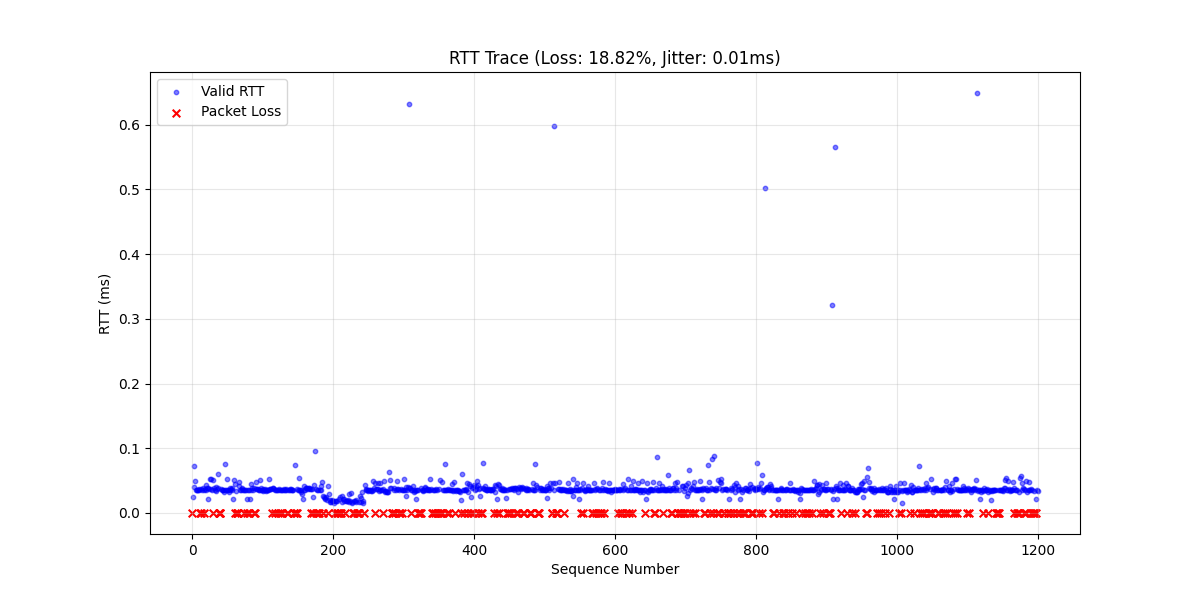
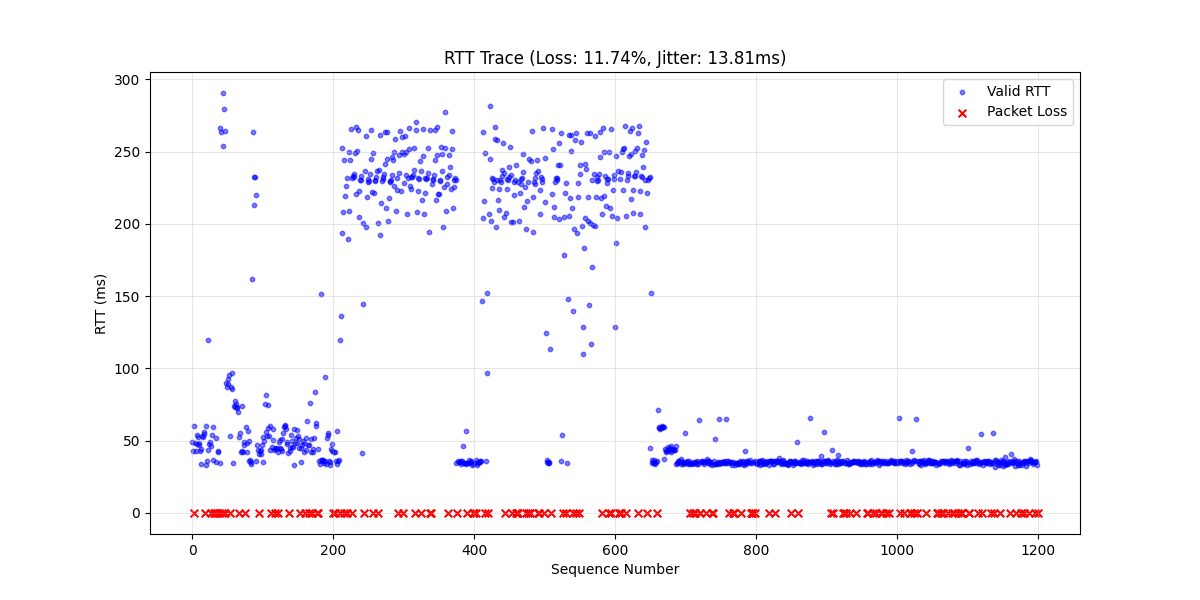
feat: finish report

diff --git a/report_template/sections/results_analysis.tex b/report_template/sections/results_analysis.tex
@@ -1,0 +1,52 @@
+\section{Results Analysis}
+The Round Trip Time (RTT) shows a clear bimodal distribution, visible in both the scatter plot (Figure 1) and the CDF (Figure 2).
+
+\begin{itemize}
+    \item \textbf{Baseline Latency:} The minimum RTT is 32.03 ms, close to the expected 30 ms, with a median of 42.82 ms during stable periods.
+    
+    \item \textbf{Queueing Spikes:} RTT occasionally rises up to 290.59 ms, with the 95th percentile at 256.31 ms, and the CDF shows almost no packets between 100 ms and 150 ms. This pattern could be caused by congestion on the path, but other factors—such as OS scheduling delays, emulator artifacts, or background traffic—might also contribute.
+
+    \item \textbf{Variability:} Average change between consecutive RTTs is 13.81 ms, showing high variability during possible congestion.
+\end{itemize}
+
+Grouping RTTs into 60-second bins (Figure 3) shows the timing of these delays. The first three minutes (Bins 0--2) and last nine minutes (Bins 11--19) are stable, with small variations. Between minutes 3 and 11, RTTs rise above 200 ms with wide variation, indicating sustained congestion rather than short spikes.
+
+\begin{figure}[H]
+    \centering
+    \includegraphics[width=0.8\textwidth]{../1_scatter_loss.png} 
+    \caption{RTT trace showing bimodal delays and bursty packet loss.}
+\end{figure}
+
+\begin{figure}[H]
+    \centering
+    \includegraphics[width=0.8\textwidth]{../3_cdf_plot.png} 
+    \caption{CDF of RTT highlighting two distinct path states.}
+\end{figure}
+
+\begin{figure}[H]
+    \centering
+    \includegraphics[width=0.8\textwidth]{../2_boxplots_stability.png} 
+    \caption{RTT stability over time (60-second bins) showing periods of high variance.}
+\end{figure}
+
+\subsection{End-to-End Data Rate}
+
+The application payload is 32 bytes. Including UDP (8 bytes), IPv4 (20 bytes), and Ethernet (14 bytes) overhead, the physical frame size ($S_{\text{frame}}$) on the wire is 74 bytes. 
+
+Transmitting one packet per second gives a theoretical transmission rate ($R_{\text{theoretical}}$):
+
+\[
+R_{\text{theoretical}} = \frac{S_{\text{frame}} \times 8 \text{ bits/byte}}{t_{\text{interval}}} 
+= \frac{74 \times 8}{1 \text{ s}} 
+= 592 \text{ bps}
+\]
+
+Over the 20-minute measurement window ($T_{\text{total}} = 1200$ s), 141 of 1200 packets were lost. The actual throughput ($R_{\text{actual}}$) using only successfully delivered packets ($N_{\text{success}} = 1060$) is:
+
+\[
+R_{\text{actual}} = \frac{N_{\text{success}} \times S_{\text{frame}} \times 8 \text{ bits/byte}}{T_{\text{total}}} 
+= \frac{1060 \times 74 \times 8}{1200 \text{ s}} 
+\approx 522.9 \text{ bps}
+\]
+
+Although the path can handle up to 20 Mbps (as it stated in specs), the measured rate reflects the application's fixed sending schedule. High delays and packet loss indicate the link is often saturated by background cross-traffic.

diff --git a/report_template/sections/probe_protocol_design.tex b/report_template/sections/probe_protocol_design.tex
@@ -1,0 +1,16 @@
+\section{Probe Protocol Design}
+
+The application utilizes a fixed 32-byte payload defined by a C \texttt{struct}. This fixed-size structure ensures type safety and precise memory alignment on the lab machines. 
+
+The packet is composed of three explicit fields:
+\begin{itemize}
+    \item \textbf{Sequence Number (\texttt{seq\_num}, 4 bytes):} Transmitted probe index. This allows the application to accurately track packet loss and detect any out-of-order delivery.
+    
+    \item \textbf{Timestamp (\texttt{send\_ts}, 16 bytes):} Records the departure time using \texttt{CLOCK\_MONOTONIC}. Embedding the transmit time directly in the payload enables precise Round Trip Time (RTT) calculation upon reflection, minimizing the impact of local OS scheduling delays that could've occured if we were to timestamp the packet only in userspace after transmission or rely solely on post-receive timing measurements.
+    
+    \item \textbf{Magic Number (\texttt{probe\_magic\_val}, 4 bytes):} A static hexadecimal identifier (\texttt{0xDEADBEEF}) used for application-layer validation. Although the operating system already demultiplexes UDP traffic based on port number, this identifier provides an additional layer of verification. 
+
+    Consider a scenario where another process (or a misconfigured script) sends arbitrary UDP data to the same listening port. The kernel will still deliver that datagram to the application, as it matches the port number. Without validating the magic number, the program could mistakenly interpret the payload as a legitimate probe response and compute an invalid RTT. While this situation is unlikely in the controlled coursework environment where only the reflector is expected to respond, including a magic value provides defensive robustness and ensures the application processes only correctly structured probe packets.
+\end{itemize}
+
+\textit{Note: The remaining 8 bytes of the 32-byte total consist of implicit memory padding added by the C compiler to correctly align the 16-byte \texttt{timespec} structure in memory.}

diff --git a/report_template/sections/implement_methodology.tex b/report_template/sections/implement_methodology.tex
@@ -1,0 +1,18 @@
+\section{Implementation and Experimental Methodology}
+
+The probe program was implemented using the provided code from the lecture week 3. The only part that I've used were files: \textbf{UdpSocket.c/h}, and I took inspiration from \textbf{upd-client-2}.
+
+\subsection{Transmission Control and Concurrency}
+The assignment asks for one probe per second and permits only one outstanding probe at any given time. To enforce this, the app uses \texttt{poll()} system call:
+\begin{enumerate}
+    \item \textbf{Transmission:} For each iteration, a \texttt{ProbePacket\_t} containing a sequence number, a monotonic transmit timestamp, and a magic value is constructed and sent to the remote reflector via UDP.
+
+    \item \textbf{Reception Window:} The socket is monitored using \texttt{poll()} with a timeout of $1$ second to detect an incoming reflected datagram.
+
+    \item \textbf{Classification:} If a correctly sized packet with a valid magic number is received within the timeout window, the RTT is computed and the probe is logged as \texttt{SUCCESS}. If no packet arrives before the timeout, the probe is marked as \texttt{LOST}. Any malformed or invalid packet is classified as \texttt{ERROR\_OR\_CORRUPT}.
+\end{enumerate}
+
+\subsection{Data Collection Setup}
+I sent 1200 probs in $~20$ minutes of time. The sender was executed on \textbf{pc3-005-l}, targeting \texttt{slurpe-5} (running with the \texttt{--fullpe} flag) on \textbf{pc3-006-l}. 
+
+The \texttt{stdbuf -oL} utility was used to write each probe result to a CSV file, recording sequence number, RTT (ms), byte count, and status for analysis.

diff --git a/report_template/sections/intro.tex b/report_template/sections/intro.tex
@@ -1,1 +1,5 @@
 \section{Introduction}
+
+This report details the design, implementation, and analysis of a custom UDP probe application. The primary objective of this practical is to measure and analyze the end-to-end delay, packet loss, and data rate of a network link under specific emulated constraints.
+\\\\
+The experiment was conducted using two separate School of Computer Science Linux lab machines. The probe sender was executed on host \textbf{pc3-005-l}, which transmitted UDP packets to the \texttt{slurpe-5} reflector program that was running with \textbf{fullpe} and \textbf{rx} flags on host \textbf{pc3-006-l}. 1200 probes were sent to adhere to the requirements.

diff --git a/report_template/sections/conclusion.tex b/report_template/sections/conclusion.tex
@@ -1,0 +1,3 @@
+\section{Conclusion}
+
+This experiment used a custom UDP probe to analyze the emulated network path. The RTT shows a bimodal pattern with stable baseline latency around 30 ms and occasional spikes above 290 ms. Packet loss reached 11.7\%, occurring fairly consistently throughout the run, likely due to buffer overflows. The measured throughput of about 523 bps reflects the application's fixed rate, but the delays and losses show that the 20 Mbps link is often saturated by cross-traffic.

diff --git a/report_template/main.tex b/report_template/main.tex
@@ -22,6 +22,7 @@
 \usepackage{csvsimple}
 \usepackage{multicol}
 \usepackage{minted}
+\usepackage{amsmath}
 \geometry{
     left=\myMarginLeft,
     right=\myMarginRight,
@@ -53,6 +54,12 @@
 \pagebreak
 \newpage
 \input{sections/intro.tex}
+\input{sections/probe_protocol_design.tex}
+\newpage
+\input{sections/implement_methodology.tex}
+\input{sections/results_analysis.tex}
+\newpage
+\input{sections/conclusion.tex}
 \newpage
 \nocite{*}
 \printbibliography
